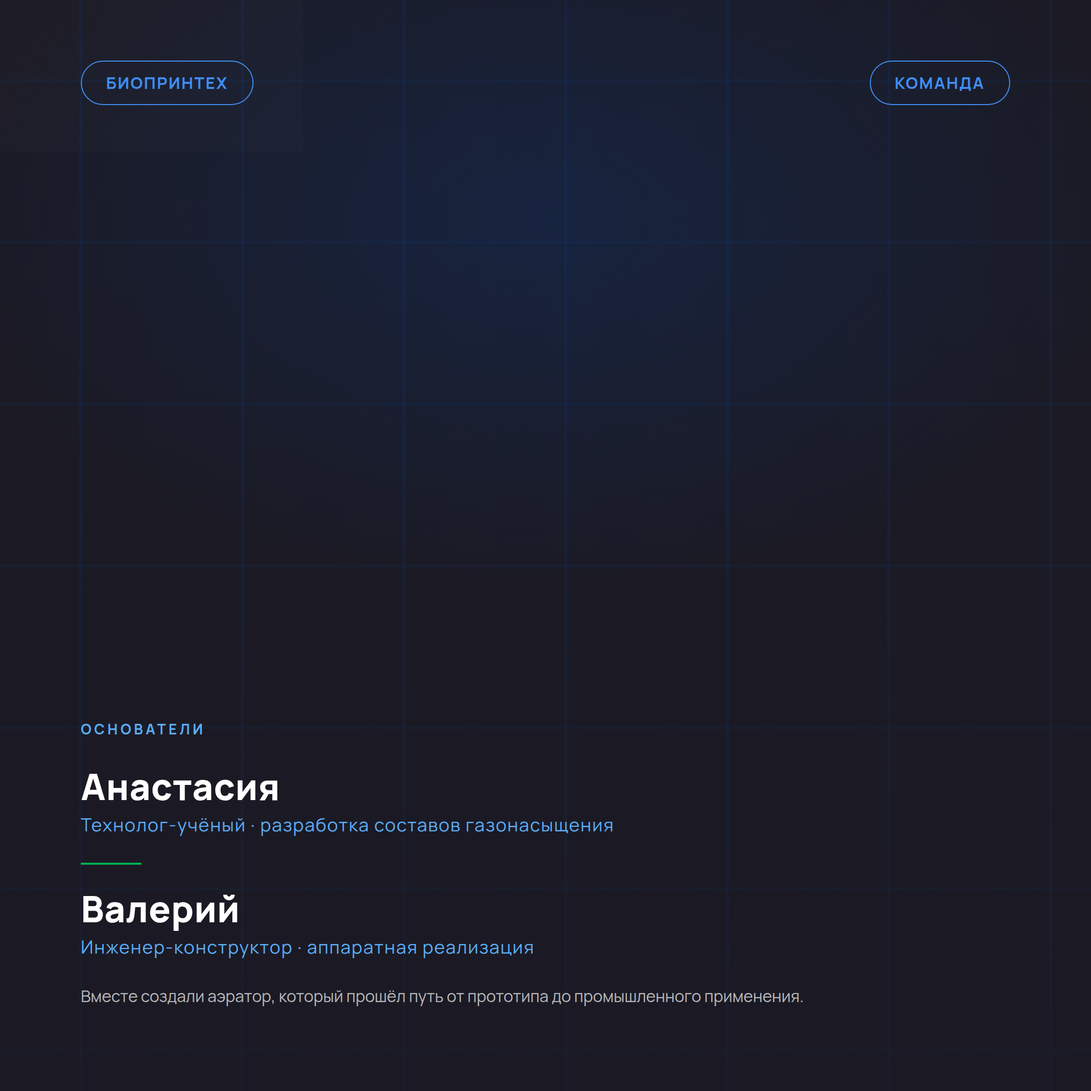
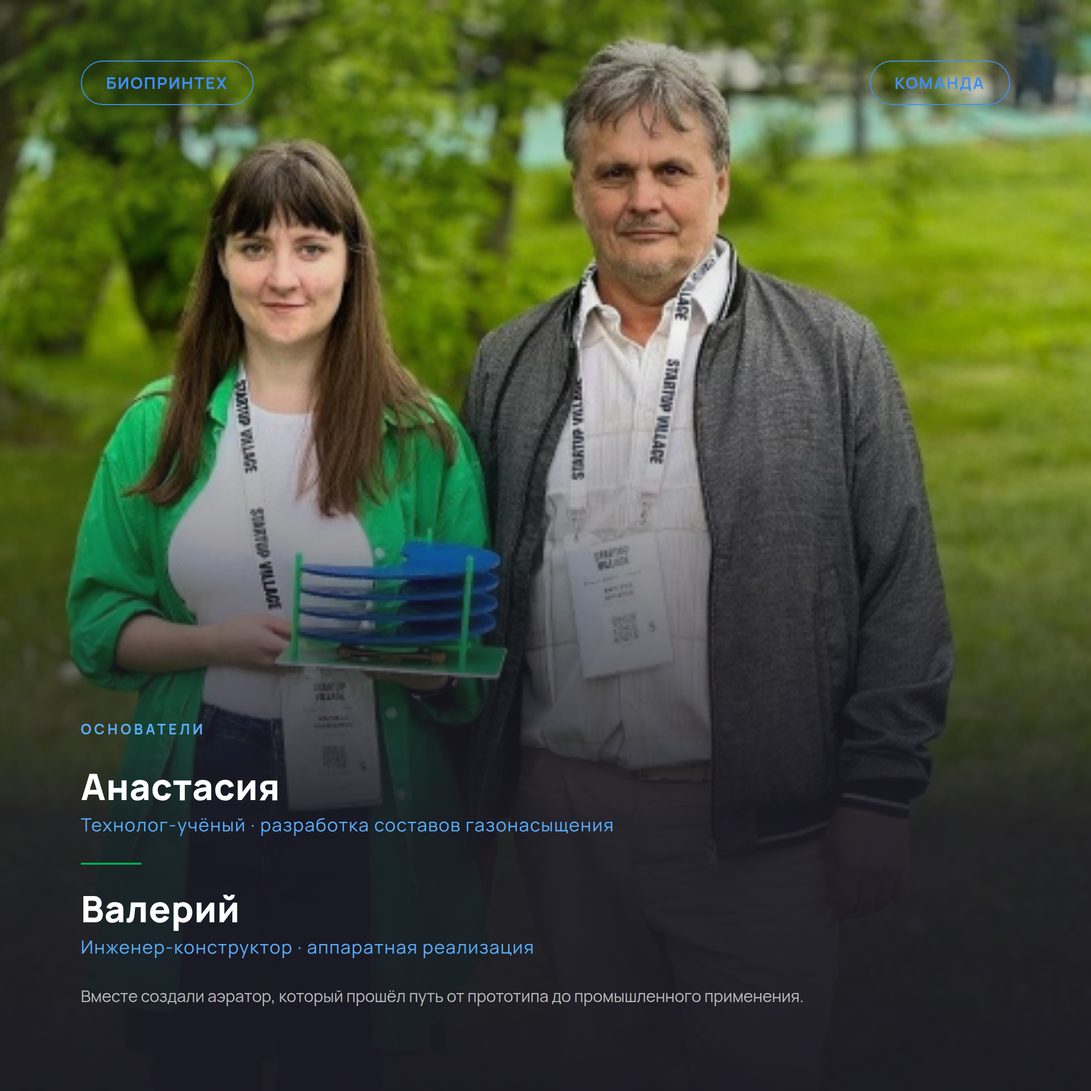
posts: слайды 02+04 с реальными фото, контраст исправлен — Bioprintex_Limatex

diff --git a/projects/Bioprintex_Limatex/posts/drafts/27_04_2026-1/slide_02.html b/projects/Bioprintex_Limatex/posts/drafts/27_04_2026-1/slide_02.html
@@ -28,23 +28,27 @@
     overflow: hidden;
   }
 
-  /* Dark tech background */
+  /* Photo background */
   .photo-bg {
     position: absolute;
     inset: 0;
-    background: #1B1A24;
-    background-image:
-      linear-gradient(90deg, transparent 49%, rgba(4,79,186,0.10) 49%, rgba(4,79,186,0.10) 51%, transparent 51%),
-      linear-gradient(0deg, transparent 49%, rgba(4,79,186,0.07) 49%, rgba(4,79,186,0.07) 51%, transparent 51%);
-    background-size: 160px 160px;
+    background-image: url('photo_founders.jpg');
+    background-size: cover;
+    background-position: center top;
   }
 
-  /* Radial glow top-center (suggests people / presence) */
+  /* Gradient overlay — сверху лёгкий, снизу очень тёмный */
   .overlay {
     position: absolute;
     inset: 0;
-    background: radial-gradient(ellipse 80% 50% at 50% 20%, rgba(4,79,186,0.18) 0%, rgba(27,26,36,0) 70%),
-                linear-gradient(to bottom, rgba(27,26,36,0) 50%, rgba(27,26,36,0.6) 100%);
+    background: linear-gradient(
+      to bottom,
+      rgba(27,26,36,0.35) 0%,
+      rgba(27,26,36,0.05) 30%,
+      rgba(27,26,36,0.55) 55%,
+      rgba(27,26,36,0.93) 75%,
+      rgba(27,26,36,0.98) 100%
+    );
   }
 
   /* Grain overlay */

diff --git a/projects/Bioprintex_Limatex/posts/drafts/27_04_2026-1/slide_04.html b/projects/Bioprintex_Limatex/posts/drafts/27_04_2026-1/slide_04.html
@@ -28,21 +28,27 @@
     overflow: hidden;
   }
 
-  /* Dark tech background */
+  /* Photo background — стенд с аэратором */
   .photo-bg {
     position: absolute;
     inset: 0;
-    background: #1B1A24;
-    background-image:
-      linear-gradient(90deg, transparent 49%, rgba(4,79,186,0.10) 49%, rgba(4,79,186,0.10) 51%, transparent 51%),
-      linear-gradient(0deg, transparent 49%, rgba(4,79,186,0.07) 49%, rgba(4,79,186,0.07) 51%, transparent 51%);
-    background-size: 160px 160px;
+    background-image: url('photo_stend.jpg');
+    background-size: cover;
+    background-position: center center;
   }
 
+  /* Overlay — верх слегка затемнён для pill-тегов, низ почти полностью тёмный */
   .overlay {
     position: absolute;
     inset: 0;
-    background: radial-gradient(ellipse 80% 40% at 50% 0%, rgba(4,79,186,0.20) 0%, rgba(27,26,36,0) 60%);
+    background: linear-gradient(
+      to bottom,
+      rgba(27,26,36,0.55) 0%,
+      rgba(27,26,36,0.20) 25%,
+      rgba(27,26,36,0.60) 45%,
+      rgba(27,26,36,0.95) 65%,
+      rgba(27,26,36,0.99) 100%
+    );
   }
 
   /* Grain overlay */
